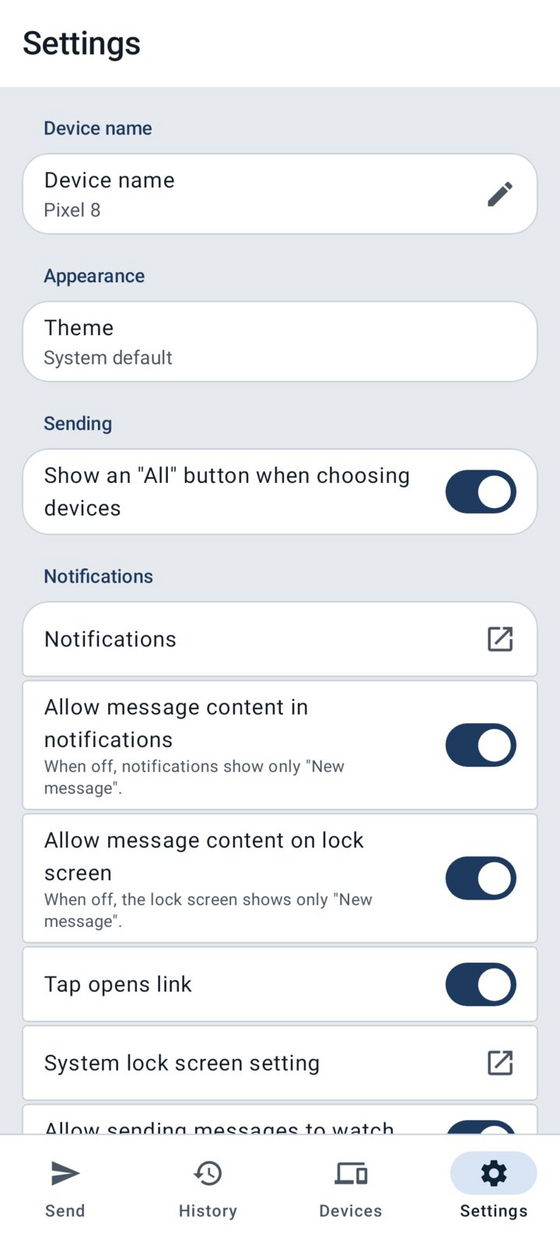
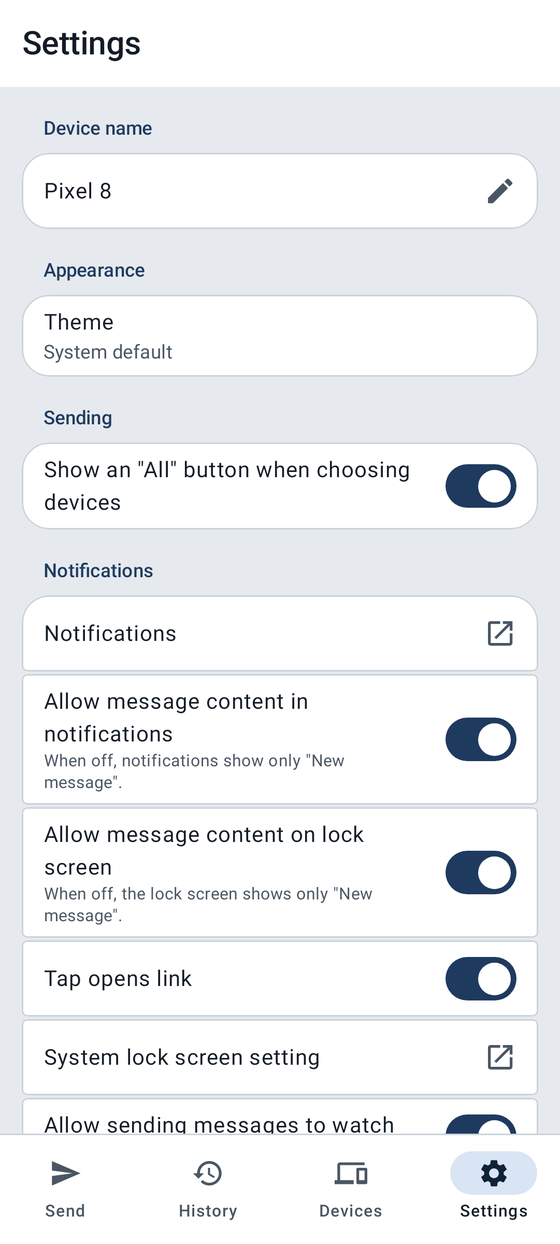
android: Settings shows the device name as the row title under the Device name header, not as small text under a repeated label

diff --git a/client/android/app/src/main/kotlin/com/pusharmor/app/ui/MainScreens.kt b/client/android/app/src/main/kotlin/com/pusharmor/app/ui/MainScreens.kt
@@ -325,7 +325,7 @@ internal fun NameEditRow(current: String, modifier: Modifier = Modifier, onSave:
     val st = rememberSaveable(saver = NameEdit.Saver) { NameEdit() }
     val cs = MaterialTheme.colorScheme
     if (!st.editing) {
-        SettingRow("Device name", current, modifier, trailing = { Icon(PaIcons.Edit, null, tint = cs.onSurfaceVariant) }) { st.start(current) }
+        SettingRow(current, null, modifier, trailing = { Icon(PaIcons.Edit, null, tint = cs.onSurfaceVariant) }) { st.start(current) }
         return
     }
     val error = st.error
